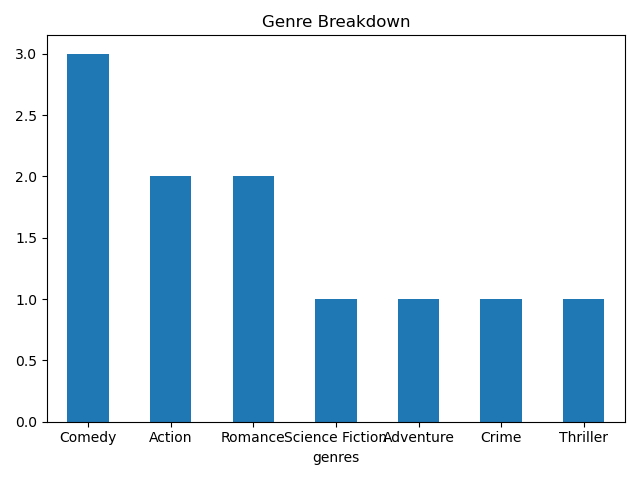
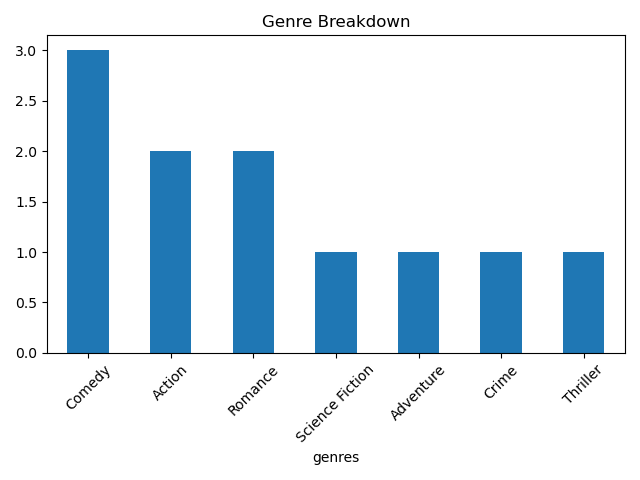
Added breakdown chart to dashboard

diff --git a/templates/dashboard.html b/templates/dashboard.html
@@ -1,4 +1,5 @@
 <h1>My Movies</h1>
+<img src="{{ url_for('static', filename='charts/genre_breakdown.png') }}" alt="Genre Breakdown Chart">
 <ul>
     {% for movie in movies %}
     <li>{{ movie.title }} ({{ movie.release_year }}) - My rating: {{ movie.my_rating }}</li>

diff --git a/app.py b/app.py
@@ -1,6 +1,7 @@
 from flask import Flask, render_template, request, redirect, url_for
 from src.database import get_session, initialise_db, Movie
 from src.tmdb_client import get_movie_details, search_movies
+from src.charts import create_genre_chart
 from datetime import datetime
 
 app = Flask(__name__)
@@ -9,6 +10,7 @@ app = Flask(__name__)
 def dashboard():
 
     session = get_session() 
+    create_genre_chart()
     # Query all movies from the database
     movies = session.query(Movie).all()
     rendered = render_template('dashboard.html', movies=movies)

diff --git a/src/charts.py b/src/charts.py
@@ -1,4 +1,6 @@
 import os
+import matplotlib
+matplotlib.use('Agg')
 import matplotlib.pyplot as plt
 from src.stats import genre_breakdown
 
